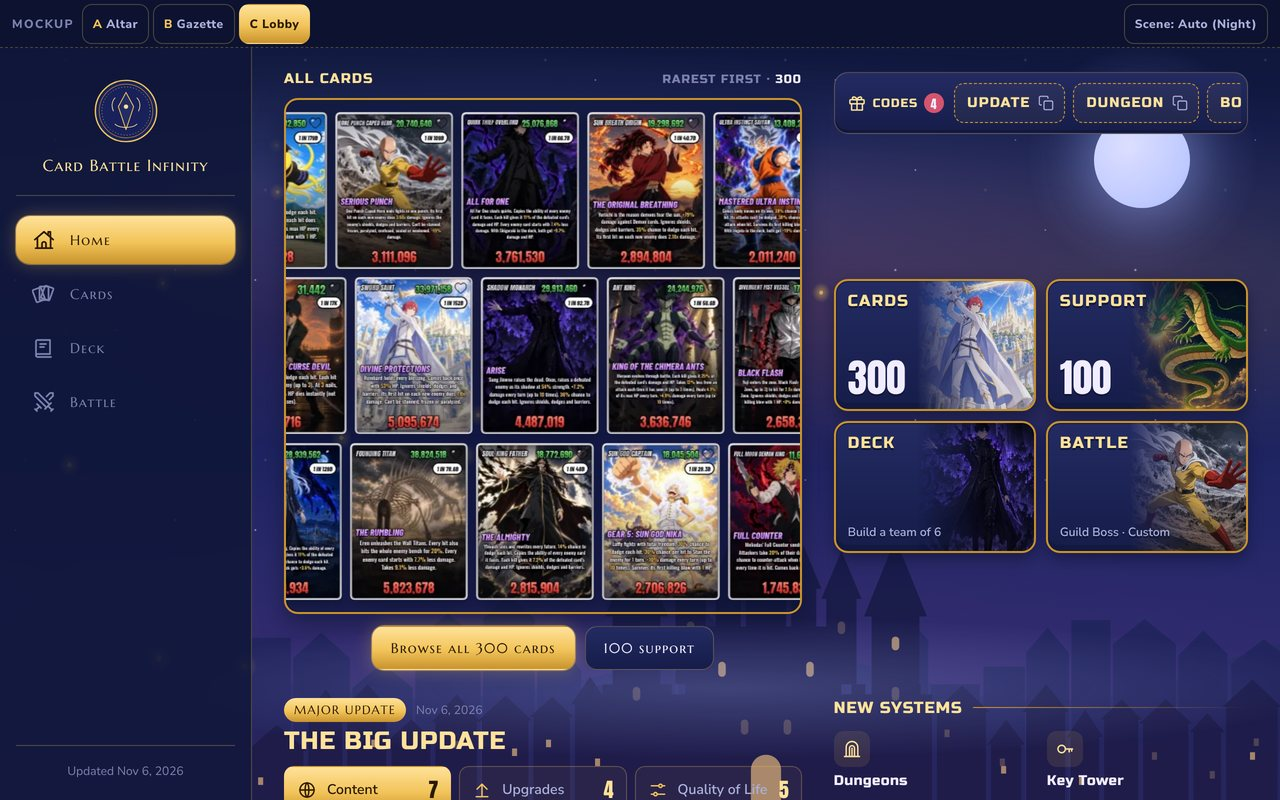
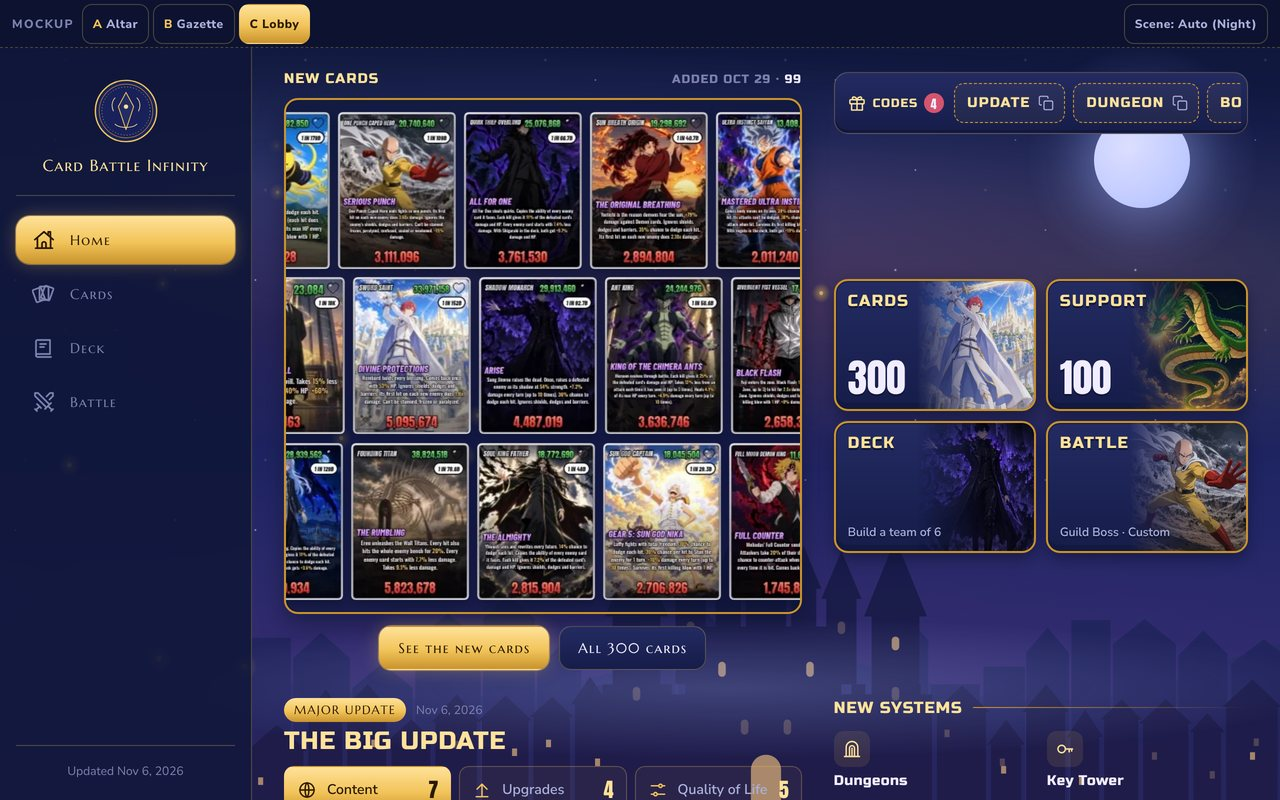
Home mockups: the wall shows the newest update's cards, not all 300
Owner 2026-11-11: the wall is for the new cards of the current update.
It now takes the cards with the newest "added" date (99 today; the 100
cards of The Big Update show up once they are on the site). The pack,
Fresh ink row and new-cards marquee are gone (same cards as the wall).
PROGRESS plan and HISTORY updated; no site files, ?v= stays 127.

Claude-Session: https://claude.ai/code/session_01WmZ8X2qkXGz5egCtJXkHFd

Changed region(s): [[0.2188, 0.0625, 0.625, 0.75], [0.2812, 0.7812, 0.5625, 0.8438]]

diff --git a/mockup/home-v2/index.html b/mockup/home-v2/index.html
@@ -206,7 +206,7 @@ body::before { content: ""; position: fixed; inset: 0 0 auto; height: env(safe-a
 .bk-c1 { fill: var(--flux); stroke: var(--gold-hi); stroke-width: 2; } .bk-c2 { fill: var(--r-cosmic); stroke: var(--gold-hi); stroke-width: 2; }
 .bk-inf { fill: none; stroke: var(--gold-hi); stroke-width: 6; stroke-linecap: round; } .bk-dot { fill: var(--gold-hi); } .bk-star { fill: var(--ink); opacity: .7; }
 /* the 9 levels */
-/* the wall: every card on the site drifting past in rows (transform only · one layer per row · stops under the pointer) */
+/* the wall: the cards that came with the newest update, drifting past in rows (transform only · one layer per row · stops under the pointer) */
 .wall { --cw: 84px; --wg: 8px; display: grid; gap: var(--wg); justify-self: stretch; margin-inline: -34px; padding-block: 12px; overflow: hidden; transform: rotate(-3deg); }
 .wall__row { display: flex; width: max-content; animation: drift var(--d, 400s) linear infinite; will-change: transform; }
 .wall__row:nth-child(even) { animation-direction: reverse; }
@@ -215,8 +215,7 @@ body::before { content: ""; position: fixed; inset: 0 0 auto; height: env(safe-a
 .wc { flex: none; width: var(--cw); aspect-ratio: 3 / 4; margin-right: var(--wg); border-radius: 3.7% / 2.78%; background-size: 1000% 500%; background-repeat: no-repeat;
   box-shadow: 0 6px 14px color-mix(in srgb, var(--city-1) 70%, transparent); transition: transform var(--t-fast) var(--ease); }
 .wc:active { transform: scale(.94); }
-.s0 { background-image: url(img/all_0.webp); } .s1 { background-image: url(img/all_1.webp); } .s2 { background-image: url(img/all_2.webp); }
-.s3 { background-image: url(img/all_3.webp); } .s4 { background-image: url(img/all_4.webp); } .s5 { background-image: url(img/all_5.webp); }
+.s0 { background-image: url(img/new_0.webp); } .s1 { background-image: url(img/new_1.webp); }
   border: 1px solid color-mix(in srgb, var(--lvl) 70%, transparent); color: var(--ink); font: 400 var(--fs-xs)/1 var(--f-display); letter-spacing: .14em; text-transform: uppercase; }
 /* update sections as tabs (A) or tiles (C) */
 .cats { display: flex; gap: 8px; overflow-x: auto; scrollbar-width: none; padding-bottom: 2px; } .cats::-webkit-scrollbar { display: none; }
@@ -289,7 +288,7 @@ body::before { content: ""; position: fixed; inset: 0 0 auto; height: env(safe-a
   .mock--a { grid-template-columns: minmax(0, 1.7fr) minmax(0, 1fr); gap: 28px 32px; align-items: start; padding-top: 24px; max-width: 1320px; }
   .a-codes { grid-column: 1 / -1; margin: 0; border: 1px solid var(--glass-line); border-radius: var(--r-panel); }
   .a-hero { grid-column: 1 / -1; gap: 14px; } .a-hero .wall { --cw: 108px; --wg: 10px; margin-inline: -32px; } .a-count b { font-size: 64px; }
-  .a-news { grid-column: 1; grid-row: 3 / span 2; } .a-pack { grid-column: 2; grid-row: 3; } .a-sys { grid-column: 2; grid-row: 4; }
+  .a-news { grid-column: 1; } .a-sys { grid-column: 2; }
   .a-pull .hrow { flex-wrap: wrap; overflow: visible; margin: 0; padding: 0; } .a-pull .flip { width: calc((100% - 20px) / 3); }
 }
 
@@ -349,7 +348,7 @@ body::before { content: ""; position: fixed; inset: 0 0 auto; height: env(safe-a
   .b-roster { grid-column: 8 / -1; padding-top: 4px; } .b-roster .wall { margin-inline: 0; }
   .b-cols { grid-column: 1 / -1; } .b-cols__grid { columns: 3; column-gap: 32px; column-rule: 1px solid var(--glass-line); }
   .b-sec { break-inside: avoid; border-bottom: 0; } .b-sec summary { pointer-events: none; min-height: 36px; } .b-sec summary .chev { display: none; }
-  .b-fresh { grid-column: 1 / 8; } .b-fresh .hrow { margin: 0; padding: 0; } .b-side { grid-column: 8 / -1; }
+  .b-side { grid-column: 1 / -1; } .b-brief { grid-template-columns: repeat(4, minmax(0, 1fr)); gap: 24px; } .b-brief li { border-bottom: 0; padding-bottom: 0; }
 }
 
 /* ==========================================================
@@ -516,10 +515,8 @@ body::before { content: ""; position: fixed; inset: 0 0 auto; height: env(safe-a
   const NEWS = {"updated":"2026-11-06","updates":[{"date":"2026-11-06","kind":"major","title":"The Big Update","items":["New Content: 5 new worlds (Hero City, Devil District, Monster City, Stand Desert, Dragon Kingdom); 8 new weathers up to the ultra rare Heaven's Gate; 100 new cards (50 fighters + 20 supports + 30 weather cards); 4 new World Bosses in a remade space Boss Wing, each with boss-only cards to craft; Dungeons (team up, fight through floors, buy upgrades in the Dungeon shop); Key Tower (1,000 floors that earn Dungeon Keys); Nightmare difficulty for every story fighter","New Upgrades: Card Skill Trees (spend a card's kills on its own upgrades); Multi Roll + Roll Luck in the Skill Tree; 2 new traits, Plaguebringer (status effects) and Transcendent, the new rarest (1 in 50,000); 3 new titles","Quality of Life: multi-pop weather potions with Stop On to pick the weathers you want; HIDE stays on between fights and hidden fights show their result on their own; AUTO Dungeon can run AFK and resumes when you rejoin; shorter tutorial; Dungeon added to the Teleport menu","Balance: story difficulties give up to x200 luck, Skill Tree up to x50; Ascension luck now grows evenly past floor 100; Support team boosts stack up to +25%; Skill Tree costs more, some supports nerfed; Infinite Tower rewards grow slower past floor 3,000","Admin Abuse: new wheel with much bigger prizes; events now reach every server, private servers too","Shop: new passes Quick Roll+ and 2x Dungeon Tokens; potions in x10 (-20%) and x100 (-40%) plus the Mega Potion Pack; private server over-cap luck is now Free Buys for the owner","Fixes: cards now do what their text says (\"can't be dodged\", seal and more); security and performance fixes; everything translated to all languages"]}],"codes":[{"code":"UPDATE","reward":"Update reward","date":"2026-11-06"},{"code":"DUNGEON","reward":"Update reward","date":"2026-11-06"},{"code":"BOSSES","reward":"Update reward","date":"2026-11-06"},{"code":"EVENT","reward":"Update reward","date":"2026-11-06"}],"systems":[{"date":"2026-11-06","title":"Dungeons","desc":"Team up and fight through floors, then buy upgrades in the Dungeon shop. AUTO Dungeon can run AFK and resumes when you rejoin."},{"date":"2026-11-06","title":"Key Tower","desc":"A 1,000-floor tower that earns Dungeon Keys."},{"date":"2026-11-06","title":"Card Skill Trees","desc":"Spend a card's kills on its own upgrades."},{"date":"2026-11-06","title":"World Bosses","desc":"4 new bosses in a remade space Boss Wing, each with boss-only cards to craft."}]};                     // data/news.json
   const CARDS = {"octopus-teacher":{"name":"Octopus Teacher","atk":4527428,"hp":30182850,"odds":179000000000,"ab":"Mach 20","desc":"Koro-sensei: 38% chance to dodge each hit. 69% chance to attack twice (each hit does 0.8x damage). Heals 6.9% of its max HP every turn. Survives its first killing blow with 1 HP.","tier":"Meta"},"sword-saint":{"name":"Sword Saint","atk":5095674,"hp":33971158,"odds":151800000000,"ab":"Divine Protections","desc":"Reinhard holds every blessing. Comes back once with 53% HP. Ignores shields, dodges and barriers. Its first hit on each new enemy does 1.8x damage. Can't be stunned, frozen or paralyzed.","tier":"SS"},"slime-demon-lord":{"name":"Slime Demon Lord","atk":4340934,"hp":28939562,"odds":128800000000,"ab":"Beelzebuth","desc":"Rimuru's Predator eats anything. Copies the ability of every enemy card it faces. Each kill gives it 11% of the defeated card's damage and HP. 14% chance to dodge each hit. Every other card in your deck gets +3.6% damage.","tier":"SS"},"one-punch-caped-hero":{"name":"One Punch Caped Hero","atk":3111096,"hp":20740640,"odds":109300000000,"ab":"Serious Punch","desc":"One Punch Caped Hero ends fights in one punch. Its first hit on each new enemy does 3.68x damage. Ignores the enemy's shields, dodges and barriers. Can't be stunned, frozen, paralyzed, confused, sealed or weakened. +15% damage.","tier":"S"},"shadow-monarch":{"name":"Shadow Monarch","atk":4487019,"hp":29913460,"odds":92700000000,"ab":"Arise","desc":"Sung Jinwoo raises the dead. Once, raises a defeated enemy as its shadow at 54% strength. +7.2% damage every turn (up to 10 times). 36% chance to dodge each hit. Ignores shields, dodges and barriers.","tier":"SS"},"founding-titan":{"name":"Founding Titan","atk":5823678,"hp":38824518,"odds":78600000000,"ab":"The Rumbling","desc":"Eren unleashes the Wall Titans. Every hit also hits the whole enemy bench for 20%. Every enemy card starts with 7.7% less damage. Takes 9.1% less damage.","tier":"Meta"},"quirk-thief-overlord":{"name":"Quirk Thief Overlord","atk":3761530,"hp":25076868,"odds":66700000000,"ab":"All For One","desc":"All For One steals quirks. Copies the ability of every enemy card it faces. Each kill gives it 11% of the defeated card's damage and HP. Every enemy card starts with 7.4% less damage. With Shigaraki in the deck, both get +9.7% damage and HP.","tier":"Meta"},"ant-king":{"name":"Ant King","atk":3636746,"hp":24244976,"odds":56600000000,"ab":"King of the Chimera Ants","desc":"Meruem evolves through battle. Each kill gives it 25% of the defeated card's damage and HP. Takes 12% less from an attack each time it has seen it (up to 3 times). Heals 4.1% of its max HP every turn. +4.9% damage every turn (up to 10 times).","tier":"SS"},"eternal-wish-dragon":{"name":"Eternal Wish Dragon","odds":211000000000,"ab":"Wish Granted"},"wish-granter":{"name":"Wish Granter","odds":21400000000,"ab":"Nanika's Wish"},"first-master-fairy":{"name":"First Master Fairy","odds":2200000000,"ab":"Fairy Law"}};                   // data/cards.json + support.json (only the cards on this page)
   const COUNTS = {"cards":300,"support":100,"newDate":"2026-10-29","newCards":99,"newSupport":16};                 // cards / support on the site · the newest "added" date and how many
-  const ALL = [["octopus-teacher","Octopus Teacher"],["sword-saint","Sword Saint"],["slime-demon-lord","Slime Demon Lord"],["one-punch-caped-hero","One Punch Caped Hero"],["shadow-monarch","Shadow Monarch"],["founding-titan","Founding Titan"],["quirk-thief-overlord","Quirk Thief Overlord"],["ant-king","Ant King"],["soul-king-father","Soul King Father"],["sun-breath-origin","Sun Breath Origin"],["divergent-fist-vessel","Divergent Fist Vessel"],["sun-god-captain","Sun God Captain"],["ultra-instinct-saiyan","Ultra Instinct Saiyan"],["golden-wind-boss","Golden Wind Boss"],["full-moon-demon-king","Full Moon Demon King"],["dragon-king-of-ruin","Dragon King of Ruin"],["spiral-drill-king","Spiral Drill King"],["no-life-king","No-Life King"],["atomic-shadow-lord","Atomic Shadow Lord"],["dragon-god","Dragon God"],["primordial-butler-demon","Primordial Butler Demon"],["destroyer-dragonoid","Destroyer Dragonoid"],["dragon-emperor-monarch","Dragon Emperor Monarch"],["hypnosis-traitor","Hypnosis Traitor"],["hollow-mask-reaper","Hollow Mask Reaper"],["moon-eye-ghost","Moon Eye Ghost"],["rabbit-goddess","Rabbit Goddess"],["beast-emperor","Beast Emperor"],["pirate-king","Pirate King"],["demon-god-of-flame","Demon God of Flame"],["homunculus-father","Homunculus Father"],["white-hawk-godhand","White Hawk Godhand"],["made-in-heaven-priest","Made in Heaven Priest"],["pumpkin-sun-pride","Pumpkin Sun Pride"],["black-wizard-brother","Black Wizard Brother"],["soul-magic-father","Soul Magic Father"],["golden-gate-king","Golden Gate King"],["undead-overlord-king","Undead Overlord King"],["destroyer-god","Destroyer God"],["storm-dragon","Storm Dragon"],["witch-of-envy","Witch of Envy"],["hero-number-one","Hero Number One"],["control-devil","Control Devil"],["monk-of-names","Monk of Names"],["demon-progenitor","Demon Progenitor"],["infinity-sorcerer","Infinity Sorcerer"],["king-of-curses","King of Curses"],["wood-god-hokage","Wood God Hokage"],["otsutsuki-vessel","Otsutsuki Vessel"],["six-paths-fox-sage","Six Paths Fox Sage"],["fist-hero-vice-admiral","Fist Hero Vice Admiral"],["soul-queen-emperor","Soul Queen Emperor"],["earthquake-emperor","Earthquake Emperor"],["legendary-berserker","Legendary Berserker"],["potara-fusion-warrior","Potara Fusion Warrior"],["fusion-dance-warrior","Fusion Dance Warrior"],["ultra-ego-prince","Ultra Ego Prince"],["galactic-tyrant","Galactic Tyrant"],["skull-knight","Skull Knight"],["great-mage-founder","Great Mage Founder"],["one-eyed-ghoul","One-Eyed Ghoul"],["time-stop-vampire","Time Stop Vampire"],["demon-kings-executioner","Demon King's Executioner"],["time-wizard-king","Time Wizard King"],["spirit-gun-delinquent","Spirit Gun Delinquent"],["excalibur-king","Excalibur King"],["twelve-labors-giant","Twelve Labors Giant"],["moon-breath-swordsman","Moon Breath Swordsman"],["wrath-shield-hero","Wrath Shield Hero"],["bloody-valkyrie","Bloody Valkyrie"],["guardian-overseer","Guardian Overseer"],["clown-court-mage","Clown Court Mage"],["greed-archbishop","Greed Archbishop"],["crimson-ogre-general","Crimson Ogre General"],["human-monster","Human Monster"],["strongest-soldier","Strongest Soldier"],["decay-villain","Decay Villain"],["hundred-hand-chairman","Hundred Hand Chairman"],["captain-commander-flame","Captain-Commander Flame"],["upper-moon-fist","Upper Moon Fist"],["ice-fan-upper-moon","Ice Fan Upper Moon"],["sorcerer-killer","Sorcerer Killer"],["divine-general","Divine General"],["darkness-emperor","Darkness Emperor"],["red-hair-emperor","Red Hair Emperor"],["beast-mode-scholar","Beast Mode Scholar"],["muscle-magic-boy","Muscle Magic Boy"],["gravity-corruption","Gravity Corruption"],["stampede-gunman","Stampede Gunman"],["hell-butler","Hell Butler"],["giant-viking","Giant Viking"],["wrath-fuhrer","Wrath Fuhrer"],["immortal-apostle","Immortal Apostle"],["dragon-slayer-swordsman","Dragon Slayer Swordsman"],["order-hunter-x","Order Hunter X"],["shapeshift-kaiju","Shapeshift Kaiju"],["kaiju-number-eight","Kaiju Number Eight"],["ice-empress-general","Ice Empress General"],["masked-moon-plotter","Masked Moon Plotter"],["star-fist-delinquent","Star Fist Delinquent"],["little-devil-firefoot","Little Devil Firefoot"],["psychic-hundred-esper","Psychic Hundred Esper"],["thousand-year-witch","Thousand-Year Witch"],["one-eyed-owl","One-Eyed Owl"],["undefeated-reaper","Undefeated Reaper"],["killer-queen-salaryman","Killer Queen Salaryman"],["ultimate-life-form","Ultimate Life Form"],["grace-archangel","Grace Archangel"],["crash-magic-ace","Crash Magic Ace"],["fire-dragon-slayer","Fire Dragon Slayer"],["wind-spirit-rival","Wind Spirit Rival"],["anti-magic-devil-knight","Anti-Magic Devil Knight"],["hundred-percent-brother","Hundred Percent Brother"],["spider-half-demon","Spider Half-Demon"],["demon-lord-brother","Demon Lord Brother"],["regeneration-priest","Regeneration Priest"],["murasame-assassin","Murasame Assassin"],["unlimited-blade-archer","Unlimited Blade Archer"],["king-of-conquerors","King of Conquerors"],["shadow-garden-alpha","Shadow Garden Alpha"],["quagmire-mage","Quagmire Mage"],["frost-insect-general","Frost Insect General"],["jewel-eye-demon","Jewel Eye Demon"],["sword-demon","Sword Demon"],["purple-ogre-secretary","Purple Ogre Secretary"],["space-pirate-overlord","Space Pirate Overlord"],["tornado-esper","Tornado Esper"],["the-goliath","The Goliath"],["war-devil-girl","War Devil Girl"],["chainsaw-hero","Chainsaw Hero"],["giant-bodyguard","Giant Bodyguard"],["one-for-all-heir","One For All Heir"],["number-one-hero","Number One Hero"],["phantom-joker-magician","Phantom Joker Magician"],["spider-head","Spider Head"],["jajanken-kid","Jajanken Kid"],["flower-wind-captain","Flower Wind Captain"],["bell-hair-berserker","Bell Hair Berserker"],["flame-pillar","Flame Pillar"],["stone-prayer-pillar","Stone Prayer Pillar"],["heavenly-restricted-spear","Heavenly Restricted Spear"],["curse-manipulator","Curse Manipulator"],["special-grade-student","Special Grade Student"],["crow-genjutsu-brother","Crow Genjutsu Brother"],["sixfold-prophet","Sixfold Prophet"],["eight-gates-beast","Eight Gates Beast"],["yellow-flash-hokage","Yellow Flash Hokage"],["last-avenger","Last Avenger"],["phoenix-commander","Phoenix Commander"],["three-sword-hunter","Three Sword Hunter"],["light-speed-admiral","Light Speed Admiral"],["magma-admiral","Magma Admiral"],["hawk-eye-swordsman","Hawk Eye Swordsman"],["time-skip-assassin","Time Skip Assassin"],["rose-saiyan-impostor","Rose Saiyan Impostor"],["pride-trooper-titan","Pride Trooper Titan"],["notebook-shinigami","Notebook Shinigami"],["white-knight-pilot","White Knight Pilot"],["symmetry-reaper","Symmetry Reaper"],["invincible-gang-boss","Invincible Gang Boss"],["lich-shopkeeper","Lich Shopkeeper"],["dual-blade-gamer","Dual Blade Gamer"],["true-warrior","True Warrior"],["blue-flame-son","Blue Flame Son"],["steel-arm-alchemist","Steel Arm Alchemist"],["flame-colonel","Flame Colonel"],["turbo-granny","Turbo Granny"],["disguise-assassin","Disguise Assassin"],["retired-hitman","Retired Hitman"],["number-one-captain","Number One Captain"],["hollow-ninja","Hollow Ninja"],["strongest-flame-captain","Strongest Flame Captain"],["claw-boss-psychic","Claw Boss Psychic"],["crazy-diamond-pompadour","Crazy Diamond Pompadour"],["hamon-trickster","Hamon Trickster"],["undying-fox-sin","Undying Fox Sin"],["fairy-king-spear","Fairy King Spear"],["lightning-dragon-heir","Lightning Dragon Heir"],["ice-admiral","Ice Admiral"],["lightning-sorcerer","Lightning Sorcerer"],["star-rage-sorcerer","Star Rage Sorcerer"],["sun-dance-slayer","Sun Dance Slayer"],["tensen-lord","Tensen Lord"],["armor-queen","Armor Queen"],["dark-captain","Dark Captain"],["lion-flame-queen","Lion Flame Queen"],["black-dragon-swordsman","Black Dragon Swordsman"],["half-demon-fang","Half-Demon Fang"],["spiral-bro","Spiral Bro"],["incursio-armor","Incursio Armor"],["crimson-spear-hound","Crimson Spear Hound"],["shadow-garden-beta","Shadow Garden Beta"],["tanuki-sword-girl","Tanuki Sword Girl"],["superd-spear-warrior","Superd Spear Warrior"],["sword-king-girl","Sword King Girl"],["dragon-butler","Dragon Butler"],["finest-knight","Finest Knight"],["ogre-sword-master","Ogre Sword Master"],["atomic-swordsman","Atomic Swordsman"],["silver-fang","Silver Fang"],["blade-dancer","Blade Dancer"],["blood-red-knight","Blood-Red Knight"],["ant-shadow-general","Ant Shadow General"],["blood-fiend","Blood Fiend"],["bomb-girl","Bomb Girl"],["veteran-devil-hunter","Veteran Devil Hunter"],["colossal-strategist","Colossal Strategist"],["beast-titan-ape","Beast Titan Ape"],["ackerman-blade","Ackerman Blade"],["wing-hero","Wing Hero"],["phase-through-hero","Phase Through Hero"],["explosion-rival","Explosion Rival"],["flame-hero","Flame Hero"],["chain-scarlet-eye","Chain Scarlet Eye"],["godspeed-assassin","Godspeed Assassin"],["dragon-grandpa-assassin","Dragon Grandpa Assassin"],["rage-royal-guard","Rage Royal Guard"],["cat-guard-royal","Cat Guard Royal"],["bat-wing-espada","Bat Wing Espada"],["lone-wolf-espada","Lone Wolf Espada"],["flash-goddess","Flash Goddess"],["sakura-blade-noble","Sakura Blade Noble"],["flashy-sound-pillar","Flashy Sound Pillar"],["mist-prodigy","Mist Prodigy"],["sickle-upper-moon","Sickle Upper Moon"],["wind-scar-pillar","Wind Scar Pillar"],["patchwork-curse","Patchwork Curse"],["volcano-head-curse","Volcano Head Curse"],["ten-shadows-heir","Ten Shadows Heir"],["judge-domain-lawyer","Judge Domain Lawyer"],["snake-sannin","Snake Sannin"],["toad-sage","Toad Sage"],["copy-eye-sensei","Copy Eye Sensei"],["rapping-eight-tails","Rapping Eight Tails"],["second-hokage","Second Hokage"],["karma-boy","Karma Boy"],["black-leg-cook","Black Leg Cook"],["surgeon-of-death","Surgeon of Death"],["fire-fist-brother","Fire Fist Brother"],["oni-princess","Oni Princess"],["mochi-commander","Mochi Commander"],["perfect-bio-android","Perfect Bio-Android"],["candy-beam-majin","Candy Beam Majin"],["leopard-agent","Leopard Agent"],["horned-darling-pilot","Horned Darling Pilot"],["explosion-witch","Explosion Witch"],["thorn-princess-assassin","Thorn Princess Assassin"],["flash-lightning-swordswoman","Flash Lightning Swordswoman"],["gun-exorcist-twin","Gun Exorcist Twin"],["sparkle-strongarm","Sparkle Strongarm"],["ultimate-shield-homunculus","Ultimate Shield Homunculus"],["destruction-alchemist","Destruction Alchemist"],["psychic-shrine-girl","Psychic Shrine Girl"],["turbo-ghost-kid","Turbo Ghost Kid"],["axe-prodigy","Axe Prodigy"],["asaemon-swordswoman","Asaemon Swordswoman"],["cannon-captain","Cannon Captain"],["knight-king","Knight King"],["smoke-card-joker","Smoke Card Joker"],["hair-psychic","Hair Psychic"],["axe-warrior-kid","Axe Warrior Kid"],["calm-water-pillar","Calm Water Pillar"],["half-hot-half-cold","Half-Hot Half-Cold"],["rose-whip-fox","Rose Whip Fox"],["zoltraak-apprentice","Zoltraak Apprentice"],["guillotine-demon","Guillotine Demon"],["scissor-cut-mage","Scissor Cut Mage"],["golden-land-demon","Golden Land Demon"],["gourmet-ghoul","Gourmet Ghoul"],["goat-sin-doll","Goat Sin Doll"],["stitched-scythe-kid","Stitched Scythe Kid"],["giant-earth-sin","Giant Earth Sin"],["ice-make-mage","Ice Make Mage"],["battle-maniac","Battle Maniac"],["satan-soul-demon","Satan Soul Demon"],["sea-dragon-princess","Sea Dragon Princess"],["spirit-sword-punk","Spirit Sword Punk"],["draculina-gunner","Draculina Gunner"],["pink-pumpkin-sniper","Pink Pumpkin Sniper"],["bird-queen","Bird Queen"],["lion-beast-fist","Lion Beast Fist"],["shadow-garden-hound","Shadow Garden Hound"],["morning-star-maid","Morning Star Maid"],["sword-saint-father","Sword Saint Father"],["one-horn-oni-maid","One Horn Oni Maid"],["shield-tiger","Shield Tiger"],["sloth-archbishop","Sloth Archbishop"],["bowel-hunter","Bowel Hunter"],["shadow-ogre-spy","Shadow Ogre Spy"],["tempest-star-wolf","Tempest Star Wolf"],["cyborg-disciple","Cyborg Disciple"],["orc-shaman-shadow","Orc Shaman Shadow"],["white-tiger-master","White Tiger Master"],["flame-guild-master","Flame Guild Master"],["hunter-chairman","Hunter Chairman"],["lifespan-angel","Lifespan Angel"],["cart-titan-girl","Cart Titan Girl"],["crossbow-fiend-hunter","Crossbow Fiend Hunter"],["fox-devil-hunter","Fox Devil Hunter"],["cyborg-sister","Cyborg Sister"]];                       // every card on the site, rarest first: [id, name] · picture = cell i of the 6 sheets img/all_0…5.webp (10 × 5 each)
+  const ALL = [["octopus-teacher","Octopus Teacher"],["sword-saint","Sword Saint"],["slime-demon-lord","Slime Demon Lord"],["one-punch-caped-hero","One Punch Caped Hero"],["shadow-monarch","Shadow Monarch"],["founding-titan","Founding Titan"],["quirk-thief-overlord","Quirk Thief Overlord"],["ant-king","Ant King"],["soul-king-father","Soul King Father"],["sun-breath-origin","Sun Breath Origin"],["divergent-fist-vessel","Divergent Fist Vessel"],["sun-god-captain","Sun God Captain"],["ultra-instinct-saiyan","Ultra Instinct Saiyan"],["golden-wind-boss","Golden Wind Boss"],["full-moon-demon-king","Full Moon Demon King"],["dragon-king-of-ruin","Dragon King of Ruin"],["spiral-drill-king","Spiral Drill King"],["no-life-king","No-Life King"],["dragon-god","Dragon God"],["primordial-butler-demon","Primordial Butler Demon"],["destroyer-dragonoid","Destroyer Dragonoid"],["hypnosis-traitor","Hypnosis Traitor"],["hollow-mask-reaper","Hollow Mask Reaper"],["rabbit-goddess","Rabbit Goddess"],["pirate-king","Pirate King"],["demon-god-of-flame","Demon God of Flame"],["homunculus-father","Homunculus Father"],["white-hawk-godhand","White Hawk Godhand"],["made-in-heaven-priest","Made in Heaven Priest"],["pumpkin-sun-pride","Pumpkin Sun Pride"],["black-wizard-brother","Black Wizard Brother"],["soul-magic-father","Soul Magic Father"],["golden-gate-king","Golden Gate King"],["undead-overlord-king","Undead Overlord King"],["destroyer-god","Destroyer God"],["storm-dragon","Storm Dragon"],["witch-of-envy","Witch of Envy"],["hero-number-one","Hero Number One"],["control-devil","Control Devil"],["monk-of-names","Monk of Names"],["demon-progenitor","Demon Progenitor"],["infinity-sorcerer","Infinity Sorcerer"],["king-of-curses","King of Curses"],["wood-god-hokage","Wood God Hokage"],["otsutsuki-vessel","Otsutsuki Vessel"],["six-paths-fox-sage","Six Paths Fox Sage"],["fist-hero-vice-admiral","Fist Hero Vice Admiral"],["soul-queen-emperor","Soul Queen Emperor"],["earthquake-emperor","Earthquake Emperor"],["legendary-berserker","Legendary Berserker"],["potara-fusion-warrior","Potara Fusion Warrior"],["fusion-dance-warrior","Fusion Dance Warrior"],["ultra-ego-prince","Ultra Ego Prince"],["galactic-tyrant","Galactic Tyrant"],["skull-knight","Skull Knight"],["great-mage-founder","Great Mage Founder"],["one-eyed-ghoul","One-Eyed Ghoul"],["time-stop-vampire","Time Stop Vampire"],["demon-kings-executioner","Demon King's Executioner"],["time-wizard-king","Time Wizard King"],["spirit-gun-delinquent","Spirit Gun Delinquent"],["excalibur-king","Excalibur King"],["twelve-labors-giant","Twelve Labors Giant"],["moon-breath-swordsman","Moon Breath Swordsman"],["wrath-shield-hero","Wrath Shield Hero"],["guardian-overseer","Guardian Overseer"],["greed-archbishop","Greed Archbishop"],["human-monster","Human Monster"],["strongest-soldier","Strongest Soldier"],["decay-villain","Decay Villain"],["hundred-hand-chairman","Hundred Hand Chairman"],["upper-moon-fist","Upper Moon Fist"],["ice-fan-upper-moon","Ice Fan Upper Moon"],["sorcerer-killer","Sorcerer Killer"],["divine-general","Divine General"],["darkness-emperor","Darkness Emperor"],["red-hair-emperor","Red Hair Emperor"],["ice-empress-general","Ice Empress General"],["masked-moon-plotter","Masked Moon Plotter"],["star-fist-delinquent","Star Fist Delinquent"],["leopard-agent","Leopard Agent"],["psychic-shrine-girl","Psychic Shrine Girl"],["knight-king","Knight King"],["smoke-card-joker","Smoke Card Joker"],["scissor-cut-mage","Scissor Cut Mage"],["ice-make-mage","Ice Make Mage"],["satan-soul-demon","Satan Soul Demon"],["sea-dragon-princess","Sea Dragon Princess"],["pink-pumpkin-sniper","Pink Pumpkin Sniper"],["lion-beast-fist","Lion Beast Fist"],["shadow-garden-hound","Shadow Garden Hound"],["morning-star-maid","Morning Star Maid"],["one-horn-oni-maid","One Horn Oni Maid"],["shield-tiger","Shield Tiger"],["sloth-archbishop","Sloth Archbishop"],["shadow-ogre-spy","Shadow Ogre Spy"],["orc-shaman-shadow","Orc Shaman Shadow"],["hunter-chairman","Hunter Chairman"],["lifespan-angel","Lifespan Angel"]];                       // the cards of the newest update (newest "added" date), rarest first: [id, name] · picture = cell i of the sheets img/new_0…1.webp (10 × 5 each)
   const TODAY = new Date(2026, 10, 11);      // the day the mockup was made (the Gazette's date line)
-  const NEW_CARDS = ["octopus-teacher", "sword-saint", "slime-demon-lord", "one-punch-caped-hero", "shadow-monarch", "founding-titan", "quirk-thief-overlord", "ant-king"];
-  const NEW_SUP = ["eternal-wish-dragon", "wish-granter", "first-master-fairy"];
   const FAN = [["founding-titan", "Rainbow"], ["shadow-monarch", "Secret"], ["octopus-teacher", "Godly"], ["sword-saint", "Ascended"], ["slime-demon-lord", "Cosmic"]];
   // the big figures of the update (taken by hand from its text · the real page would read an optional "figures" list in news.json)
   const FIGS = [[100, "new cards"], [5, "new worlds"], [8, "new weathers"], [4, "World Bosses"], ["1,000", "Key Tower floors"]];
@@ -563,11 +560,11 @@ body::before { content: ""; position: fixed; inset: 0 0 auto; height: env(safe-a
   const figsHTML = () => FIGS.map(([n, l]) => `<div class="fig"><b>${n}</b><span>${esc(l)}</span></div>`).join("");
   const codesHTML = () => NEWS.codes.map((c) => `<button class="code press" type="button" data-code="${esc(c.code)}" aria-label="Copy code ${esc(c.code)}">${esc(c.code)}${use("i-copy")}</button>`).join("");
   const sysHTML = () => NEWS.systems.map((s) => `<div class="sys">${use(iconOf(SYS_ICON, s.title))}<b>${esc(s.title)}</b><span>${esc(s.desc)}</span></div>`).join("");
-  function wallHTML(n) {   // all the cards dealt into n rows · every row is written twice so the drift loops without a seam
+  function wallHTML(n) {   // the new cards dealt into n rows · every row is written twice so the drift loops without a seam
     const rows = Array.from({ length: n }, () => []);
     ALL.forEach((c, i) => rows[i % n].push(i));
     const cell = (i, dup) => `<button class="wc s${Math.floor(i / 50)}" type="button" data-i="${i}" style="background-position:${((i % 10) / 9 * 100).toFixed(2)}% ${(Math.floor((i % 50) / 10) / 4 * 100).toFixed(0)}%" ${dup ? 'tabindex="-1" aria-hidden="true"' : `aria-label="${esc(ALL[i][1])}"`}></button>`;
-    return `<div class="wall">${rows.map((r, k) => `<div class="wall__row" style="--d:${380 + k * 45}s">${r.map((i) => cell(i)).join("")}${r.map((i) => cell(i, true)).join("")}</div>`).join("")}</div>`;
+    return `<div class="wall">${rows.map((r, k) => `<div class="wall__row" style="--d:${Math.round(r.length * 3.9) + k * 14}s">${r.map((i) => cell(i)).join("")}${r.map((i) => cell(i, true)).join("")}</div>`).join("")}</div>`;
   }
   const newLine = `${COUNTS.newCards} cards · ${COUNTS.newSupport} support`;
 
@@ -578,25 +575,13 @@ body::before { content: ""; position: fixed; inset: 0 0 auto; height: env(safe-a
       <div class="a-codes__row">${codesHTML()}</div>
     </div>
     <div class="a-hero">
-      <div class="a-hero__head"><p class="eyebrow">The Gallery</p><p class="date">Rarest first</p></div>
+      <div class="a-hero__head"><p class="eyebrow">New this update</p><p class="date">Added ${fmtDate(COUNTS.newDate)}</p></div>
       ${wallHTML(3)}
       <div class="a-info">
-        <h1 class="a-count"><b>${COUNTS.cards}</b>cards on the wall</h1>
-        <div class="a-cta"><button class="btn btn--gold press" type="button">Browse all cards</button><button class="btn press" type="button">${COUNTS.support} support</button></div>
+        <h1 class="a-count"><b>${COUNTS.newCards}</b>new cards</h1>
+        <div class="a-cta"><button class="btn btn--gold press" type="button">See the new cards</button><button class="btn press" type="button">All ${COUNTS.cards} cards</button></div>
       </div>
     </div>
-    <section class="a-pack box box--hi" aria-label="New arrivals">
-      <div class="pack" id="pack"><svg viewBox="0 0 120 70" aria-hidden="true"><use href="#inf"/></svg><b>${COUNTS.newCards}</b><span>New cards</span><i class="pack__sheen"></i></div>
-      <div class="a-pack__txt">
-        <h2>New arrivals</h2>
-        <p>Added ${fmtDate(COUNTS.newDate)} · ${newLine}</p>
-        <button class="btn btn--gold press" type="button" id="open">Open the pack</button>
-      </div>
-      <div class="a-pull" id="pull" hidden>
-        <div class="hrow">${NEW_CARDS.map((id) => flipHTML("n_" + id, CARDS[id].name)).join("")}${NEW_SUP.map((id) => flipHTML("s_" + id, CARDS[id].name)).join("")}</div>
-      </div>
-      <button class="btn press a-pull__more" type="button" id="pull-more" hidden>See all ${COUNTS.newCards} new cards</button>
-    </section>
     <section class="a-news box" aria-label="Game update">
       <div class="a-news__head"><span class="kind">Major update</span><time class="date" datetime="${UPDATE.date}">${fmtDate(UPDATE.date)}</time></div>
       <h2>${esc(UPDATE.title)}</h2>
@@ -610,7 +595,6 @@ body::before { content: ""; position: fixed; inset: 0 0 auto; height: env(safe-a
       <h2 class="sech">New systems</h2>
       <div class="box--lite" style="display:grid;gap:14px">${sysHTML()}</div>
     </section>`;
-  function flipHTML(file, name) { return `<button class="flip" type="button" aria-label="${esc(name)}"><span class="flip__in"><span class="flip__f">${img(file, name, 'loading="lazy"')}</span><span class="flip__b">${back()}</span></span></button>`; }
 
   /* ==================== B · Gazette ==================== */
   const dayNo = Math.round((TODAY - new Date(TODAY.getFullYear(), 0, 0)) / 864e5);
@@ -632,33 +616,28 @@ body::before { content: ""; position: fixed; inset: 0 0 auto; height: env(safe-a
       <h2 class="b-h">Clip and redeem <small>${NEWS.codes.length} codes</small></h2>
       <div class="hrow">${NEWS.codes.map((c) => `<button class="coupon press" type="button" data-code="${esc(c.code)}" aria-label="Copy code ${esc(c.code)}"><span class="coupon__c"><b>${esc(c.code)}</b><span>${esc(c.reward)}</span></span><span class="coupon__x">${use("i-copy")}</span></button>`).join("")}</div>
     </aside>
-    <section class="b-roster" aria-label="All cards">
-      <h2 class="b-h">The full roster <small>${COUNTS.cards} cards · rarest first</small></h2>
+    <section class="b-roster" aria-label="New cards">
+      <h2 class="b-h">New this update <small>${newLine}</small></h2>
       ${wallHTML(2)}
-      <button class="btn press" type="button">Browse all ${COUNTS.cards} cards</button>
+      <button class="btn press" type="button">See the new cards</button>
     </section>
     <section class="b-cols" aria-label="Inside this update">
       <h2 class="b-h">Inside this update <small>${SECS.reduce((n, s) => n + s.items.length, 0)} changes</small></h2>
       <div class="b-cols__grid">${SECS.map((s, i) => `<details class="b-sec"${i === 0 ? " open" : ""}><summary>${use(s.icon)}${esc(s.name)}<b>${s.items.length}</b>${use("i-chev", "ico chev")}</summary><ul class="items">${itemsHTML(s)}</ul></details>`).join("")}</div>
-    </section>
-    <section class="b-fresh" aria-label="New arrivals">
-      <h2 class="b-h">Fresh ink <small>Added ${fmtDate(COUNTS.newDate)} · ${newLine}</small></h2>
-      <div class="hrow">${NEW_CARDS.map((id) => capHTML("n_" + id, id)).join("")}${NEW_SUP.map((id) => capHTML("s_" + id, id)).join("")}</div>
     </section>
     <section class="b-side" aria-label="New systems">
       <h2 class="b-h">In brief <small>New systems</small></h2>
       <ul class="b-brief">${NEWS.systems.map((s) => `<li><b>${esc(s.title)}</b><span>${esc(s.desc)}</span></li>`).join("")}</ul>
     </section>
   </div>`;
-  function capHTML(file, id) { const c = CARDS[id]; return `<button class="cardcap" type="button">${img(file, c.name, 'loading="lazy"')}<span>${esc(c.name)}<b>1 IN ${shortNum(c.odds)}</b></span></button>`; }
 
   /* ==================== C · Lobby ==================== */
   const PLATES = [["Cards", COUNTS.cards, "t_cards"], ["Support", COUNTS.support, "t_support"], ["Deck", "Build a team of 6", "t_deck"], ["Battle", "Guild Boss · Custom", "t_battle"]];
   $("#m-c").innerHTML = `
     <div class="c-stage">
-      <div class="c-stage__head"><p class="hud">All cards</p><p class="hud hud--dim">Rarest first · <b>${COUNTS.cards}</b></p></div>
+      <div class="c-stage__head"><p class="hud">New cards</p><p class="hud hud--dim">Added ${fmtDate(COUNTS.newDate, { month: "short", day: "numeric" })} · <b>${COUNTS.newCards}</b></p></div>
       <div class="c-frame">${wallHTML(3)}</div>
-      <div class="a-cta"><button class="btn btn--gold press" type="button">Browse all ${COUNTS.cards} cards</button><button class="btn press" type="button">${COUNTS.support} support</button></div>
+      <div class="a-cta"><button class="btn btn--gold press" type="button">See the new cards</button><button class="btn press" type="button">All ${COUNTS.cards} cards</button></div>
     </div>
     <div class="c-codes" aria-label="Codes"><span class="hud">${use("i-gift")}Codes <b>${NEWS.codes.length}</b></span><div class="a-codes__row">${codesHTML()}</div></div>
     <div class="c-menu">${PLATES.map(([name, n, file]) => `<button class="plate press" type="button"><img src="img/${file}.webp" alt="" loading="lazy" width="300" height="400"><span class="hud">${name}</span><b class="${typeof n === "number" ? "" : "txt"}">${n}</b></button>`).join("")}</div>
@@ -666,11 +645,6 @@ body::before { content: ""; position: fixed; inset: 0 0 auto; height: env(safe-a
       <div class="c-board__head"><p><span class="kind">Major update</span><time class="date" datetime="${UPDATE.date}">${fmtDate(UPDATE.date)}</time></p><h2>${esc(UPDATE.title)}</h2></div>
       <div class="c-tiles" role="tablist" data-cats>${SECS.map((s, i) => `<button class="tile press" type="button" role="tab" aria-selected="${i === 0}" data-sec="${i}">${use(s.icon)}<span>${esc(s.name)}</span><b>${s.items.length}</b></button>`).join("")}</div>
       <div class="box"><ul class="items" style="margin:0" data-items>${itemsHTML(SECS[0])}</ul></div>
-    </section>
-    <section class="c-new" aria-label="New arrivals">
-      <h2 class="sech">New arrivals <small>${newLine}</small></h2>
-      <div class="c-new__track">${[0, 1].map((dup) => NEW_CARDS.map((id) => `<button type="button" ${dup ? 'tabindex="-1" aria-hidden="true"' : `aria-label="${esc(CARDS[id].name)}"`}>${img("n_" + id, dup ? "" : CARDS[id].name, 'loading="lazy"')}</button>`).join("")
-        + NEW_SUP.map((id) => `<button type="button" ${dup ? 'tabindex="-1" aria-hidden="true"' : `aria-label="${esc(CARDS[id].name)}"`}>${img("s_" + id, dup ? "" : CARDS[id].name, 'loading="lazy"')}</button>`).join("")).join("")}</div>
     </section>
     <section class="c-sys" aria-label="New systems"><h2 class="sech">New systems</h2>${sysHTML()}</section>`;
 
@@ -701,16 +675,6 @@ body::before { content: ""; position: fixed; inset: 0 0 auto; height: env(safe-a
     if (ok) { btn.classList.add("is-done"); const u = $("use", btn); if (u) u.setAttribute("href", "#i-check"); toast("Copied " + code); }
     else toast("Couldn't copy. Press and hold the code.");
   }
-
-  /* ---------- A: open the pack → the new cards turn over one by one ---------- */
-  $("#open").addEventListener("click", () => {
-    const pack = $("#pack"), pull = $("#pull");
-    pack.classList.add("is-open"); $("#open").hidden = true;
-    setTimeout(() => {
-      pull.hidden = false; $("#pull-more").hidden = false;
-      $$(".flip", pull).forEach((f, i) => setTimeout(() => f.classList.add("is-up"), reduced ? 0 : 90 * i + 60));
-    }, reduced ? 0 : 520);
-  });
 
   /* ---------- the scene follows the clock and the season (Auto) · the button steps through them for the mockup ---------- */
   const SCENES = ["auto", "night", "dusk", "dawn", "snow"];

diff --git a/PROGRESS.md b/PROGRESS.md
@@ -42,10 +42,10 @@
 
 ## ▶ ขั้นถัดไป (เจ้าของ copy ไปวางในแชทใหม่)
 **🎨 แผนหน้าตาใหม่ (เจ้าของสั่ง 2026-11-10 · เป้า: เข้าเว็บแล้วรู้สึกเหมือนเข้าโลกเกม · mockup `mockup/home-v2/index.html` · Artifact https://claude.ai/artifact/PauqYJRcLPh95MG6p3CuYS · แคปจอ 390/1280 `mockup/home-v2/shots/` · จุดอ่อนที่ตรวจเจอ + ผลวัด: HISTORY §9 "แผนหน้าตาใหม่ รอบ 0")** · 1 รอบ = 1 แชท · งานหน้าตา = pull request แล้วรอเจ้าของดูก่อน merge · prompt: `ทำรอบหน้าตา <เลข> ตาม PROGRESS ▶ แผนหน้าตาใหม่` · โมเดล / effort อยู่ในวงเล็บของแต่ละรอบ
-- ✅ **รอบ 0 (2026-11-10 · แก้ตามเจ้าของ 2026-11-11 · ไม่แตะไฟล์เว็บ · ไม่เปลี่ยน `?v=` · branch `ccr-a06c2389-p0hkea` · pull request #184 รอเจ้าของดู):** mockup หน้า Home 3 แบบในไฟล์เดียว (แถบ Mockup บนสุด: ปุ่ม A / B / C + ปุ่ม Scene · ข้อมูลจริงจาก `news.json` / `cards.json` · รูปการ์ด = การ์ดที่เว็บวาดเอง `C.renderCard`) · **เจ้าของสั่ง 2026-11-11: ไม่เอา Card of the Day → ใส่การ์ดทั้งหมดแทน + พื้นหลังขยับได้** · ทุกแบบมี **กำแพงการ์ด** = การ์ดครบ 300 ใบ (ยากสุดก่อน) ไหลเป็นแถวสลับทิศ แตะใบไหน = เปิดใบนั้น · **A Altar** = กำแพงการ์ด 3 แถวเอียงเป็น hero + โค้ดแถบเดียว + การ์ดใหม่แกะซอง + ข่าวแยกหมวดเป็นแท็บ · **B Gazette** = ข่าวเป็นหน้าหนึ่งหนังสือพิมพ์ (พาดหัวใหญ่ + การ์ดกางพัด + ตัวเลขเด่น + โค้ดเป็นคูปอง + ข่าวแยกคอลัมน์ + กำแพงการ์ด 2 แถว) · **C Lobby** = ล็อบบี้เกม (กำแพงการ์ดในกรอบทอง + แผ่นเมนูใหญ่ Cards / Support / Deck / Battle + ข่าวเป็นกระดานหมวด + การ์ดใหม่วิ่ง) · ทั้ง 3 แบบ: หลังการ์ดออกแบบเอง (ตอนแกะซอง) · ตัวเลข Anton · กล่อง 3 น้ำหนัก (เด่น / ปกติ / เบา) · **ฉากหลังขยับ:** ดาวเลื่อน + แสงเหนือพลิ้ว + หมอกลอยผ่านปราสาท + โคมลอยขึ้นจากเมือง + ดาวตก + รัศมีจันทร์ + หน้าต่างกะพริบ · ฉาก Night / Dusk / Dawn / Snow
-- ⏳ **เจ้าของตอบก่อนรอบ 1:** (1) เลือก A / B / C หรือผสม (เช่น "A + คูปองของ B") (2) เพิ่ม localStorage key ใหม่ 1 ตัวได้ไหม (จำว่าแกะซองการ์ดใหม่แล้ว · กฎข้อ 11 · ไม่ให้ = ซองกลับมาปิดทุกครั้งที่เปิดเว็บ) (3) แบบ C ใช้ฟอนต์ Russo One เพิ่ม 1 ตัว ได้ไหม · ~~Card of the Day~~ ไม่ทำ (เจ้าของ 2026-11-11)
-- **รอบ 1 · Home ส่วนบนตามแบบที่เลือก** (Opus 5.5 / high): กำแพงการ์ดทั้งหมด (รูปย่อ `art/thumb` + ตัวเลขที่เว็บวาด หรือแผ่นรูปรวมที่สร้างด้วยสคริปต์ · แตะ = `#card/<id>` · เล่นเฉพาะตอนอยู่บนจอ · ห้าม `filter: blur` / `mask` บนชั้นที่ขยับ: ทำ fps ตกเหลือ 35) + โค้ดแถบเดียว (แตะ = คัดลอก) + ของกลางใหม่: `--f-num` (Anton ที่เว็บโหลดอยู่แล้ว) · กล่อง 3 น้ำหนัก (`.panel--hi` / `.panel` / `.panel--lite`) · หลังการ์ด `#i-cardback` + `.flip` → เขียนลง §3.2 §3.3 §4
-- **รอบ 2 · Home ส่วนล่าง** (Opus 5.5 / high): ข่าวแยกหมวด (แยกจาก `"หมวด: a; b; c"` ใน `items` เดิม ไม่ต้องแก้ข่าวเก่า) + ตัวเลขเด่น (`figures: [[100, "new cards"], …]` ใน `news.json` · ไม่มี = ไม่โชว์ · แก้ §5.2 §7 E) + การ์ดใหม่แกะซอง / แถวเลื่อน + ระบบใหม่เป็นกล่องเบา · ลบสไตล์เก่าใน `home.css`
+- ✅ **รอบ 0 (2026-11-10 · แก้ตามเจ้าของ 2026-11-11 สองรอบ · ไม่แตะไฟล์เว็บ · ไม่เปลี่ยน `?v=` · branch `ccr-a06c2389-p0hkea` · pull request #184 รอเจ้าของดู):** mockup หน้า Home 3 แบบในไฟล์เดียว (แถบ Mockup บนสุด: ปุ่ม A / B / C + ปุ่ม Scene · ข้อมูลจริงจาก `news.json` / `cards.json` · รูปการ์ด = การ์ดที่เว็บวาดเอง `C.renderCard`) · **เจ้าของสั่ง 2026-11-11:** ไม่เอา Card of the Day · **กำแพงการ์ด = การ์ดใบใหม่ของอัปเดตล่าสุด** (ไม่ใช่ทั้ง 300 ใบ) · พื้นหลังขยับได้ · **กำแพงการ์ด** = การ์ดที่ `added` เป็นวันล่าสุด (ตอนนี้ 2026-10-29 = 99 ใบ · พอใส่การ์ดใหม่ 100 ใบของ The Big Update ที่ยังไม่ได้อัป กำแพงเปลี่ยนเป็นชุดนั้นเอง) เรียงยากสุดก่อน ไหลเป็นแถวสลับทิศ แตะใบไหน = เปิดใบนั้น · **A Altar** = กำแพงการ์ดใหม่ 3 แถวเอียงเป็น hero + โค้ดแถบเดียว + ข่าวแยกหมวดเป็นแท็บ · **B Gazette** = ข่าวเป็นหน้าหนึ่งหนังสือพิมพ์ (พาดหัวใหญ่ + การ์ดกางพัด + ตัวเลขเด่น + โค้ดเป็นคูปอง + ข่าวแยกคอลัมน์ + กำแพงการ์ดใหม่ 2 แถว) · **C Lobby** = ล็อบบี้เกม (กำแพงการ์ดใหม่ในกรอบทอง + แผ่นเมนูใหญ่ Cards / Support / Deck / Battle + ข่าวเป็นกระดานหมวด) · กล่อง "การ์ดใหม่แกะซอง" / แถวการ์ดใหม่เดิมเอาออก (ซ้ำกับกำแพง) · ทั้ง 3 แบบ: ตัวเลข Anton · กล่อง 3 น้ำหนัก (เด่น / ปกติ / เบา) · **ฉากหลังขยับ:** ดาวเลื่อน + แสงเหนือพลิ้ว + หมอกลอยผ่านปราสาท + โคมลอยขึ้นจากเมือง + ดาวตก + รัศมีจันทร์ + หน้าต่างกะพริบ · ฉาก Night / Dusk / Dawn / Snow
+- ⏳ **เจ้าของตอบก่อนรอบ 1:** (1) เลือก A / B / C หรือผสม (เช่น "A + คูปองของ B") (2) แบบ C ใช้ฟอนต์ Russo One เพิ่ม 1 ตัว ได้ไหม · ~~Card of the Day~~ ~~แกะซอง + key ใหม่~~ ไม่ทำ (เจ้าของ 2026-11-11) · **ก่อนกำแพงขึ้นการ์ดชุด The Big Update:** ต้องใส่การ์ดใหม่ 100 ใบลงเว็บก่อน (รอบการ์ดปกติ · `added` = วันที่ใส่)
+- **รอบ 1 · Home ส่วนบนตามแบบที่เลือก** (Opus 5.5 / high): กำแพงการ์ดใหม่ของอัปเดตล่าสุด (การ์ดที่ `added` = วันล่าสุด ชุดเดียวกับ `newest()` ใน `home.js` · รูปย่อ `art/thumb` + ตัวเลขที่เว็บวาด · แตะ = `#card/<id>` · เล่นเฉพาะตอนอยู่บนจอ · ห้าม `filter: blur` / `mask` บนชั้นที่ขยับ: ทำ fps ตกเหลือ 35) + โค้ดแถบเดียว (แตะ = คัดลอก) + ของกลางใหม่: `--f-num` (Anton ที่เว็บโหลดอยู่แล้ว) · กล่อง 3 น้ำหนัก (`.panel--hi` / `.panel` / `.panel--lite`) → เขียนลง §3.2 §3.3 §4
+- **รอบ 2 · Home ส่วนล่าง** (Opus 5.5 / high): ข่าวแยกหมวด (แยกจาก `"หมวด: a; b; c"` ใน `items` เดิม ไม่ต้องแก้ข่าวเก่า) + ตัวเลขเด่น (`figures: [[100, "new cards"], …]` ใน `news.json` · ไม่มี = ไม่โชว์ · แก้ §5.2 §7 E) + ระบบใหม่เป็นกล่องเบา · Support ใหม่ของอัปเดต (แถวเล็กใต้กำแพง) · ลบสไตล์เก่าใน `home.css`
 - **รอบ 3 · ฉากหลังขยับ** (Opus 5.5 / high): เพิ่มใน `FX.backdrop` ตาม mockup: ดาวเลื่อน · แสงเหนือ · หมอก · โคมลอย · ดาวตก (ไล่สีนุ่มด้วย gradient ไม่ใช้ blur) + ตามเวลาเครื่อง (night · dawn 5–8 น. · dusk 17–19 น.) + เทศกาล (หิมะ ธ.ค. · ตารางเทศกาลใน `fx.js`) · แต่ละเมนู = มุมกล้องคนละจุดของเมืองเดียวกัน (เลื่อน / ซูมเมืองด้วย transform ตอนเปลี่ยนเมนู) · lite = ลดจำนวนโคม / ปิดแสงเหนือ · reduced = นิ่ง
 - **รอบ 4 · สีระดับย้อมทั้งหน้า + View Transitions** (Opus 5.5 / high): `--lvl` ต่อระดับ ย้อมฉากและหัวข้อทุกหน้าที่มีชิประดับ (Cards / Support · Home ถ้ากำแพงการ์ดตามระดับ) · เปลี่ยนเมนูด้วย `document.startViewTransition` (เบราว์เซอร์ไม่รองรับ = `fx-page-in` เดิม)
 - **รอบ 5 · ตัวเว็บดังเท่าการ์ด** (Sonnet 5.5 / high): ใช้กล่อง 3 น้ำหนัก + ตัวเลข `--f-num` + หัวข้อแบบใหม่กับ Cards / Deck / Battle · หน้าจอและระบบเดิม

diff --git a/HISTORY.md b/HISTORY.md
@@ -2727,3 +2727,11 @@
 
 - **ผลทดสอบ:** 360 / 390 / 768 / 1280 / 1920 ทั้ง 3 แบบ: ไม่มี scroll แนวนอน · ปุ่มเล็กกว่า 40px = 0 · console error = 0 · แตะการ์ดในกำแพง / โค้ด / แท็บข่าว / แกะซองได้ · `prefers-reduced-motion` = animation เล่น 0 ตัว · นอก `:root` ไม่มีเลขสี · บั๊กที่เจอและแก้: บรรทัด CSS ค้างทำให้ปราสาทไม่ขึ้น
 - **ไฟล์:** `mockup/home-v2/index.html` · `img/all_0…5.webp` (ใหม่) · ลบ `img/h_*.webp` (9) `yest` `sotd` `lucky` · `shots/` ใหม่ 9 รูป (`a|b|c-390` · `a|b|c-1280` · `a-390-pack` · `c-390-snow` · `a-1280-dusk`) · `PROGRESS.md` · `HISTORY.md`
+
+### 2026-11-11 · 🎨 แผนหน้าตาใหม่ รอบ 0 แก้รอบ 2: กำแพงการ์ด = การ์ดใหม่ของอัปเดตล่าสุด (ไม่แตะไฟล์เว็บ · `?v=` ยัง `127`)
+- **เจ้าของสั่ง:** "300 ใบ เปลี่ยนเป็นการ์ดใบใหม่ในอัพเดทนั้นๆ · ตอนนี้อัพเดทมี 100 ใบที่เข้ามาใหม่แต่ยังไม่ได้อัพลง"
+- **ที่เปลี่ยน:** กำแพงการ์ดใช้เฉพาะการ์ดที่ `added` = วันล่าสุดในข้อมูล (2026-10-29 = 99 ใบ · Support ใหม่ 16 ใบบอกเป็นตัวหนังสือ) · แถววนรอบละ ~129–157 วิ (33 ใบต่อแถว) · หัวข้อ "New this update" + วันที่ + ปุ่ม See the new cards / All 300 cards · เอากล่องแกะซอง (A) · แถว Fresh ink (B) · แถวการ์ดใหม่วิ่ง (C) ออก เพราะซ้ำกับกำแพง · รูป = `img/new_0…1.webp` (2 แผ่น 843KB แทน 6 แผ่น) · ลบ `img/all_*` `n_*` `s_*`
+- **หมายเหตุ:** การ์ดใหม่ 100 ใบของ The Big Update ยังไม่อยู่ใน `data/cards.json` → mockup โชว์ชุด 2026-10-29 ไปก่อน · ใส่การ์ดชุดใหม่เมื่อไร (วัน `added` ใหม่) กำแพงเปลี่ยนเป็นชุดนั้นเอง
+- **ผลวัด (§11.3 · CPU ×6):** A 60.4 ว่าง / 60.0 เลื่อน · B 60.3 / 59.9 · C 60.2 / 60.2 · C + หิมะ 60.3 / 59.6 (เฟรมช้าสุด ≤ 33.4ms) · Home จริง 60.2 / 60.3
+- **ผลทดสอบ:** 360 / 390 / 768 / 1280 / 1920: ไม่มี scroll แนวนอน · ปุ่มเล็กกว่า 40px = 0 · console error = 0 · reduced-motion = animation เล่น 0 ตัว
+- **ไฟล์:** `mockup/home-v2/index.html` · `img/new_0.webp` `new_1.webp` · `shots/` 6 รูป (`a|b|c-390` · `a|b|c-1280`) · `PROGRESS.md` · `HISTORY.md`
